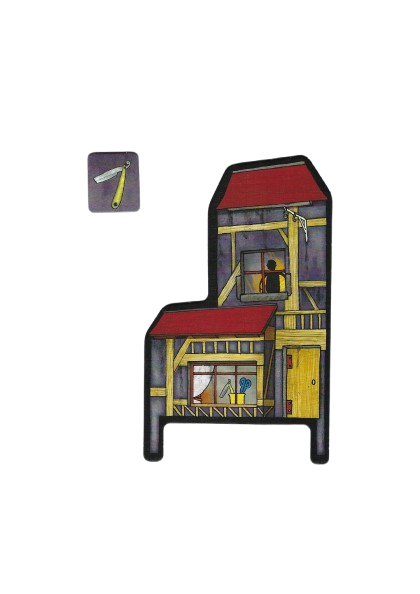
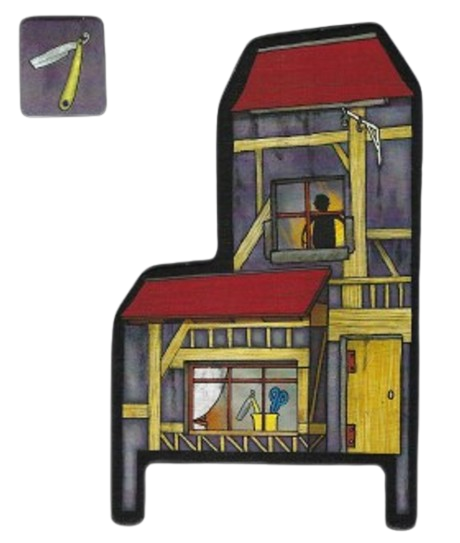
Changement d'illustration pour cette carte batiment

diff --git a/src/app/tableau-de-bord/tableau-de-bord.component.ts b/src/app/tableau-de-bord/tableau-de-bord.component.ts
@@ -156,7 +156,7 @@ export class TableauDeBordComponent {
       carte.estActiver = !carte.estActiver;
       console.log(carte.estActiver);
       CARTES[carte.id -1] = carte;
-      this.carteService.updatecarte(carte);
+      //this.carteService.updatecarte(carte);
       this.writeNewPost(carte.id, carte.estActiver);
     }
 

diff --git a/src/app/carte/mock-cartes-list.ts b/src/app/carte/mock-cartes-list.ts
@@ -234,7 +234,7 @@ export const CARTES: Carte[] = [
     {
         id: 16,
         nom: "L'Institutrice",
-        illustration: "institutrice.jpeg",
+        illustration: "institutrice.png",
         imageCarte:  "l_ecole.png",
         camps: null,
         typesPouvoir: [TYPESDEPOUVOIR[4]],
